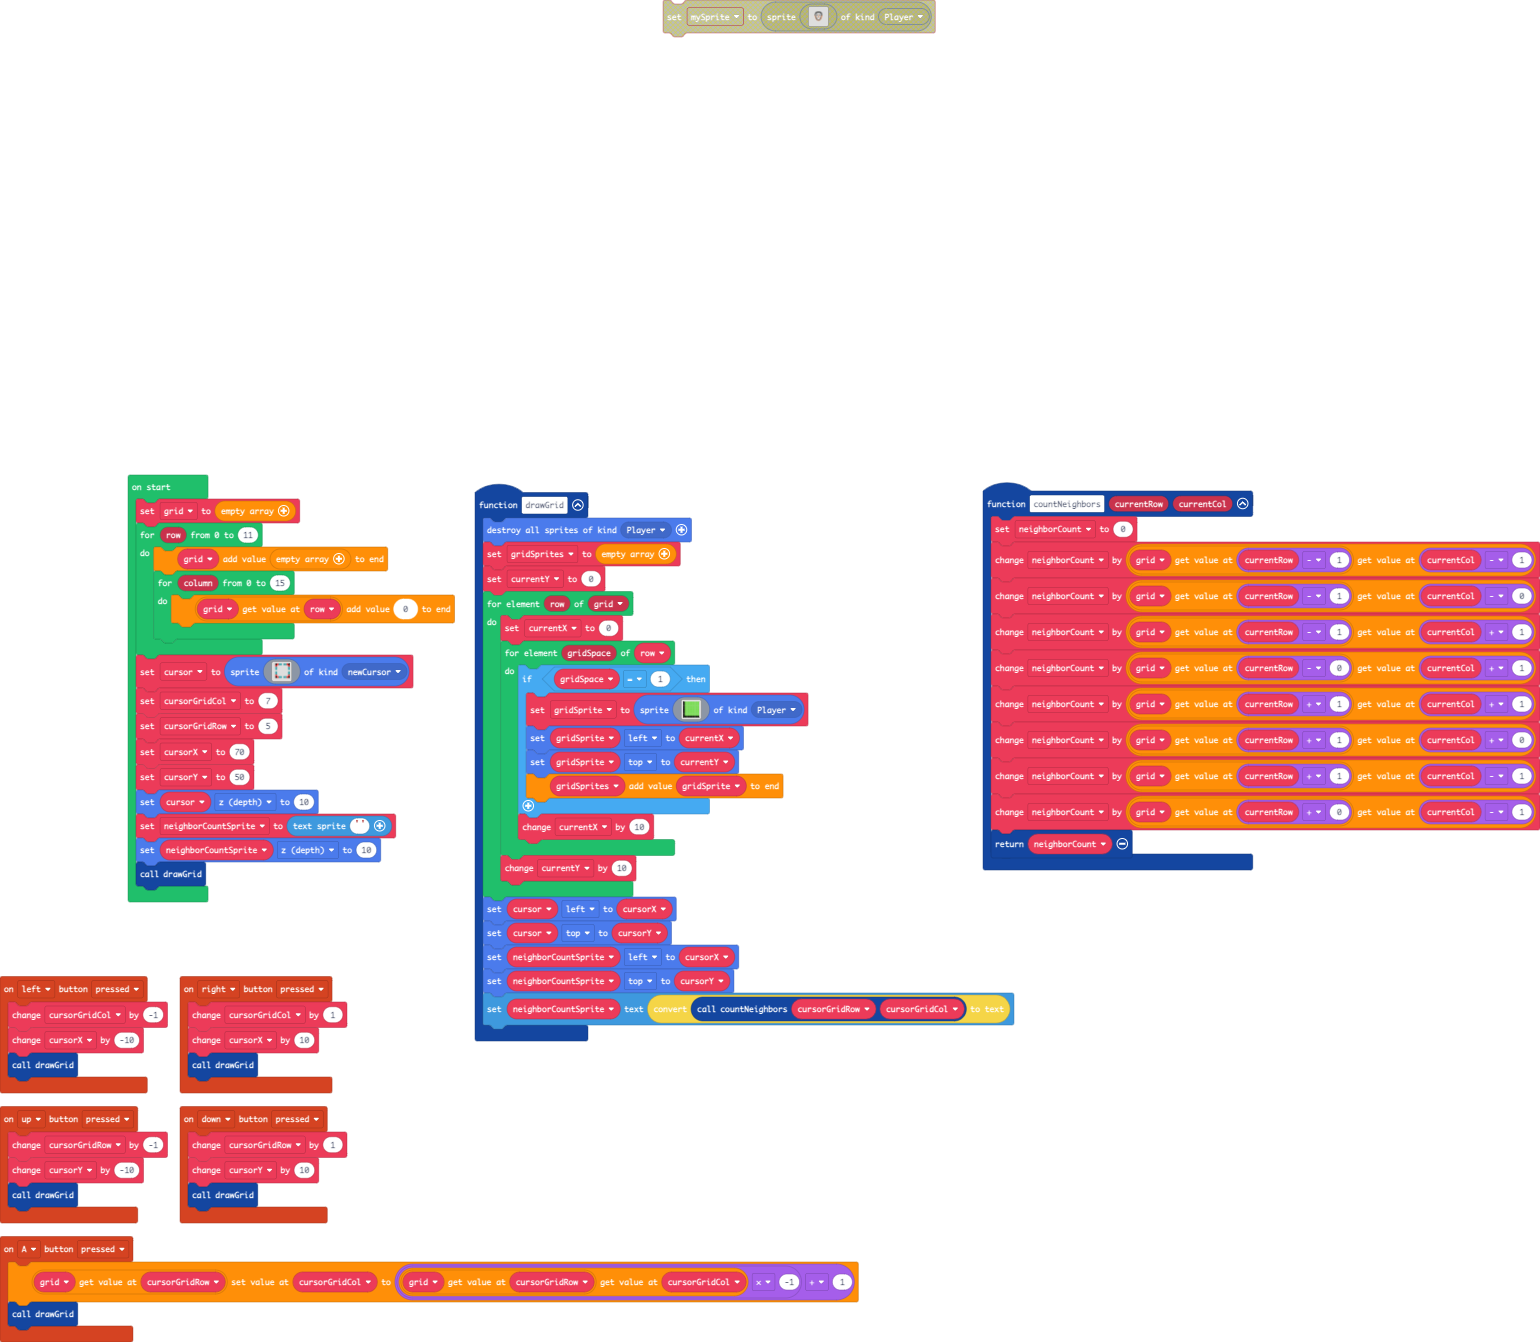
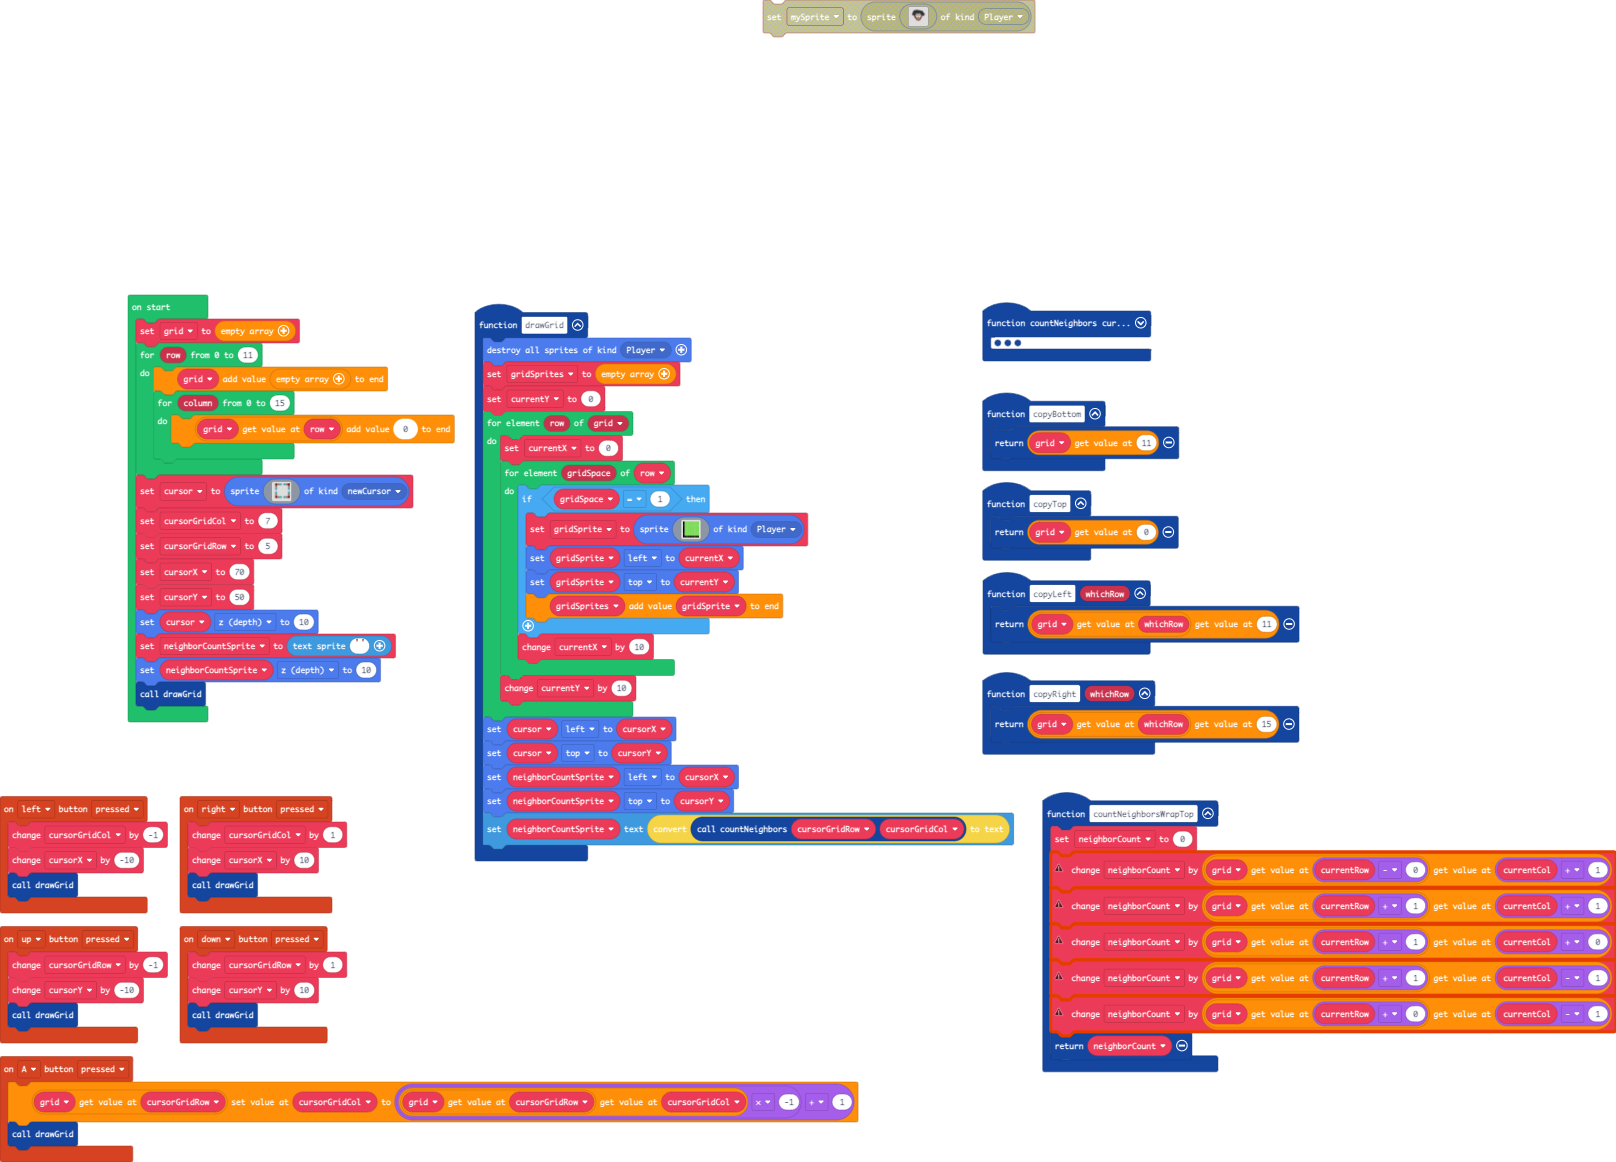
work in progress

diff --git a/main.ts b/main.ts
@@ -16,6 +16,12 @@ controller.left.onEvent(ControllerButtonEvent.Pressed, function () {
     cursorX += -10
     drawGrid()
 })
+function copyBottom () {
+    return grid[11]
+}
+function copyRight (whichRow: number) {
+    return grid[whichRow][15]
+}
 controller.right.onEvent(ControllerButtonEvent.Pressed, function () {
     cursorGridCol += 1
     cursorX += 10
@@ -55,6 +61,15 @@ function drawGrid () {
     neighborCountSprite.top = cursorY
     neighborCountSprite.setText(convertToText(countNeighbors(cursorGridRow, cursorGridCol)))
 }
+function countNeighborsWrapTop () {
+    neighborCount = 0
+    neighborCount += grid[currentRow - 0][currentCol + 1]
+    neighborCount += grid[currentRow + 1][currentCol + 1]
+    neighborCount += grid[currentRow + 1][currentCol + 0]
+    neighborCount += grid[currentRow + 1][currentCol - 1]
+    neighborCount += grid[currentRow + 0][currentCol - 1]
+    return neighborCount
+}
 function countNeighbors (currentRow: number, currentCol: number) {
     neighborCount = 0
     neighborCount += grid[currentRow - 1][currentCol - 1]
@@ -72,6 +87,12 @@ controller.down.onEvent(ControllerButtonEvent.Pressed, function () {
     cursorY += 10
     drawGrid()
 })
+function copyLeft (whichRow: number) {
+    return grid[whichRow][11]
+}
+function copyTop () {
+    return grid[0]
+}
 let neighborCount = 0
 let gridSprite: Sprite = null
 let currentX = 0
